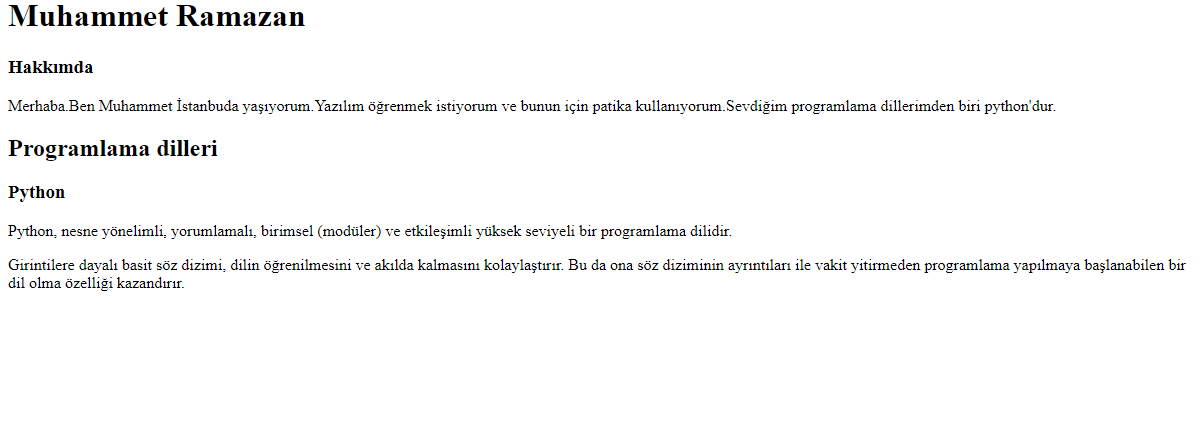
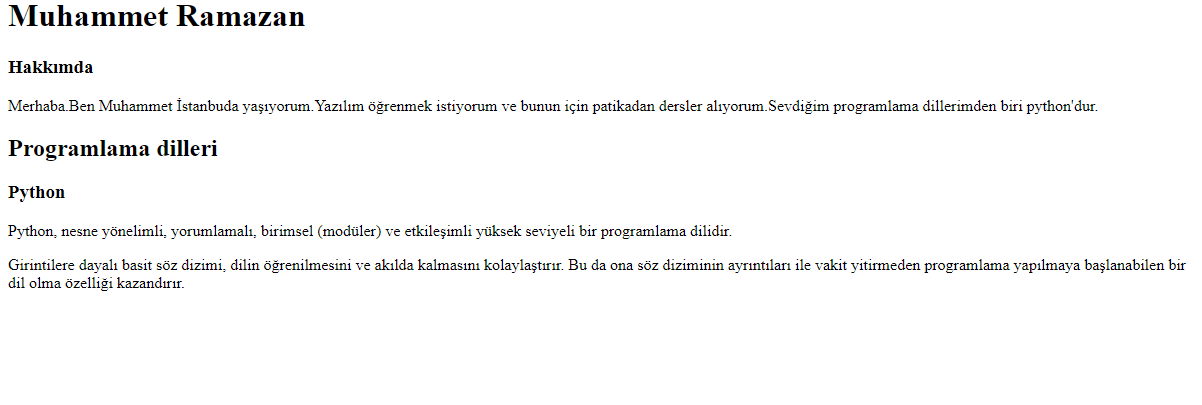
update

Changed region(s): [[0.0, 0.237, 0.9867, 0.7111], [0.0, 0.0, 0.2775, 0.0889], [0.0, 0.1185, 0.0925, 0.1778]]

diff --git a/Ödev-1/index.html b/Ödev-1/index.html
@@ -15,7 +15,7 @@
     <h3>Hakkımda</h3>
     <!--paragraph element başlangıç-->
     <p>
-    Merhaba.Ben Muhammet İstanbuda yaşıyorum.Yazılım öğrenmek istiyorum ve bunun için patika kullanıyorum.Sevdiğim programlama dillerimden biri python'dur.
+    Merhaba.Ben Muhammet İstanbuda yaşıyorum.Yazılım öğrenmek istiyorum ve bunun için patikadan dersler alıyorum.Sevdiğim programlama dillerimden biri python'dur.
     </p>
     <!--paragraph element bitiş-->
     <h2>Programlama dilleri</h2>
